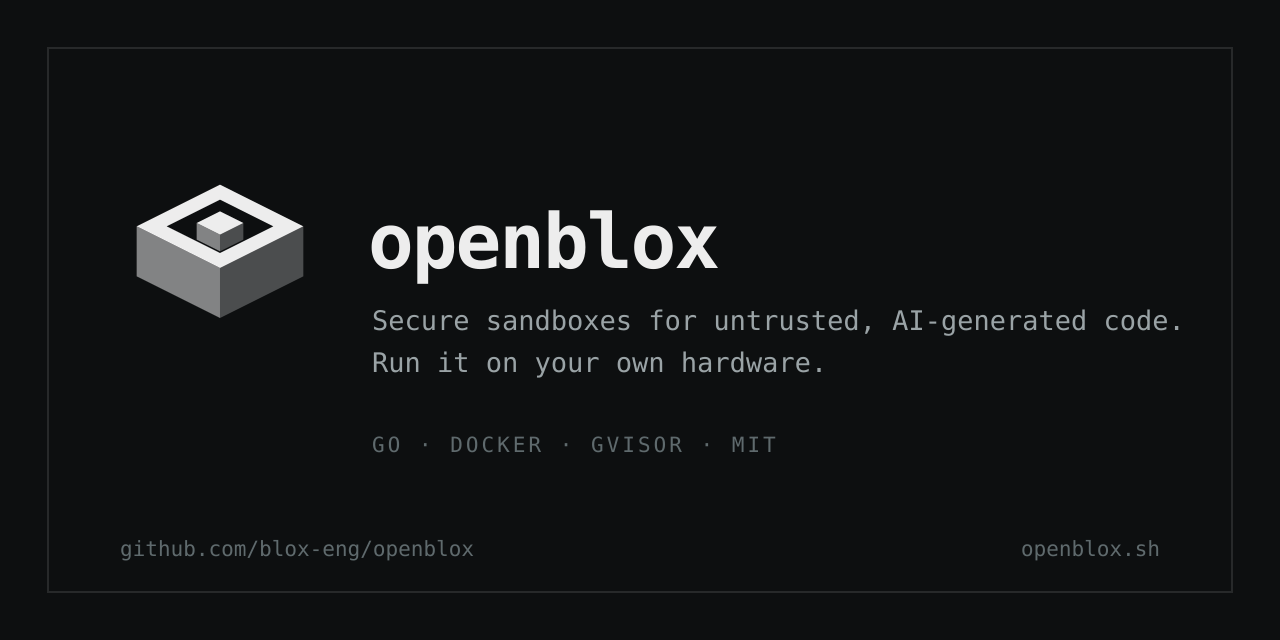
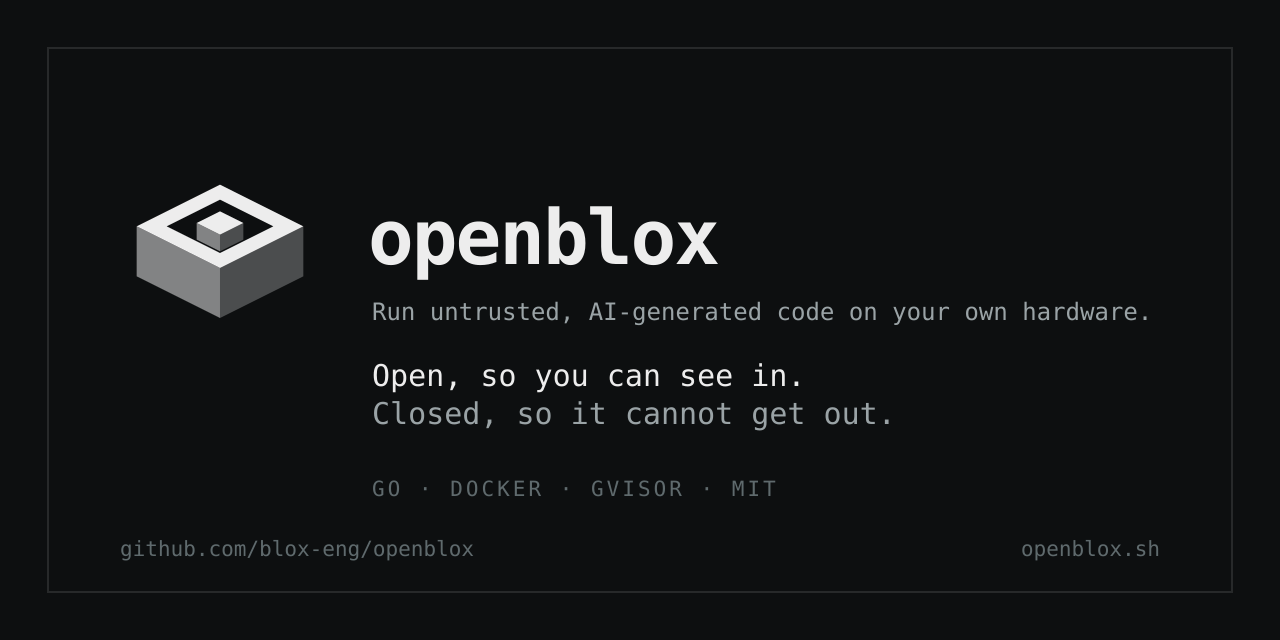
docs: bring the social card back in line with the site (#56)
The card still carried the wording from before openblox.sh had a landing
page -- "Secure sandboxes for untrusted, AI-generated code. Run it on your
own hardware." -- so every unfurl of the site showed a description the page
itself had stopped using. It now leads with what openblox does and carries
the motto the page ends on.

The PNG existed in two hand-maintained copies, one for GitHub's repository
preview and one served as og:image, with the SVG claiming to be the source
of a file nothing regenerated. `make social-preview` now renders the SVG to
both, so they cannot drift apart again.

diff --git a/CHANGELOG.md b/CHANGELOG.md
@@ -53,6 +53,13 @@ weakness, and say who was affected; the rest are as in Keep a Changelog.
   Production keeps the by-hand download-and-verify sequence beside the
   one-liner, because watching each step succeed on its own is the point when
   what you are installing is a policy broker.
+- **The social card matches the site again.** It still carried the wording from
+  before the landing page existed, so every link unfurl of `openblox.sh` showed
+  a description the page itself no longer used. It now leads with what openblox
+  does and carries the site's motto, and `make social-preview` renders it from
+  [`social-preview.svg`](.github/assets/social-preview.svg) to the two PNGs that
+  ship — the one GitHub serves for the repository and the one `og:image` points
+  at — so the two cannot drift apart by hand again.
 - The README and the landing page no longer claim "under 3,000 lines of Go".
   The `loc` badge, which is measured from the source on every deploy, had
   already reached 3,348 — so the one number in the prose was being contradicted
